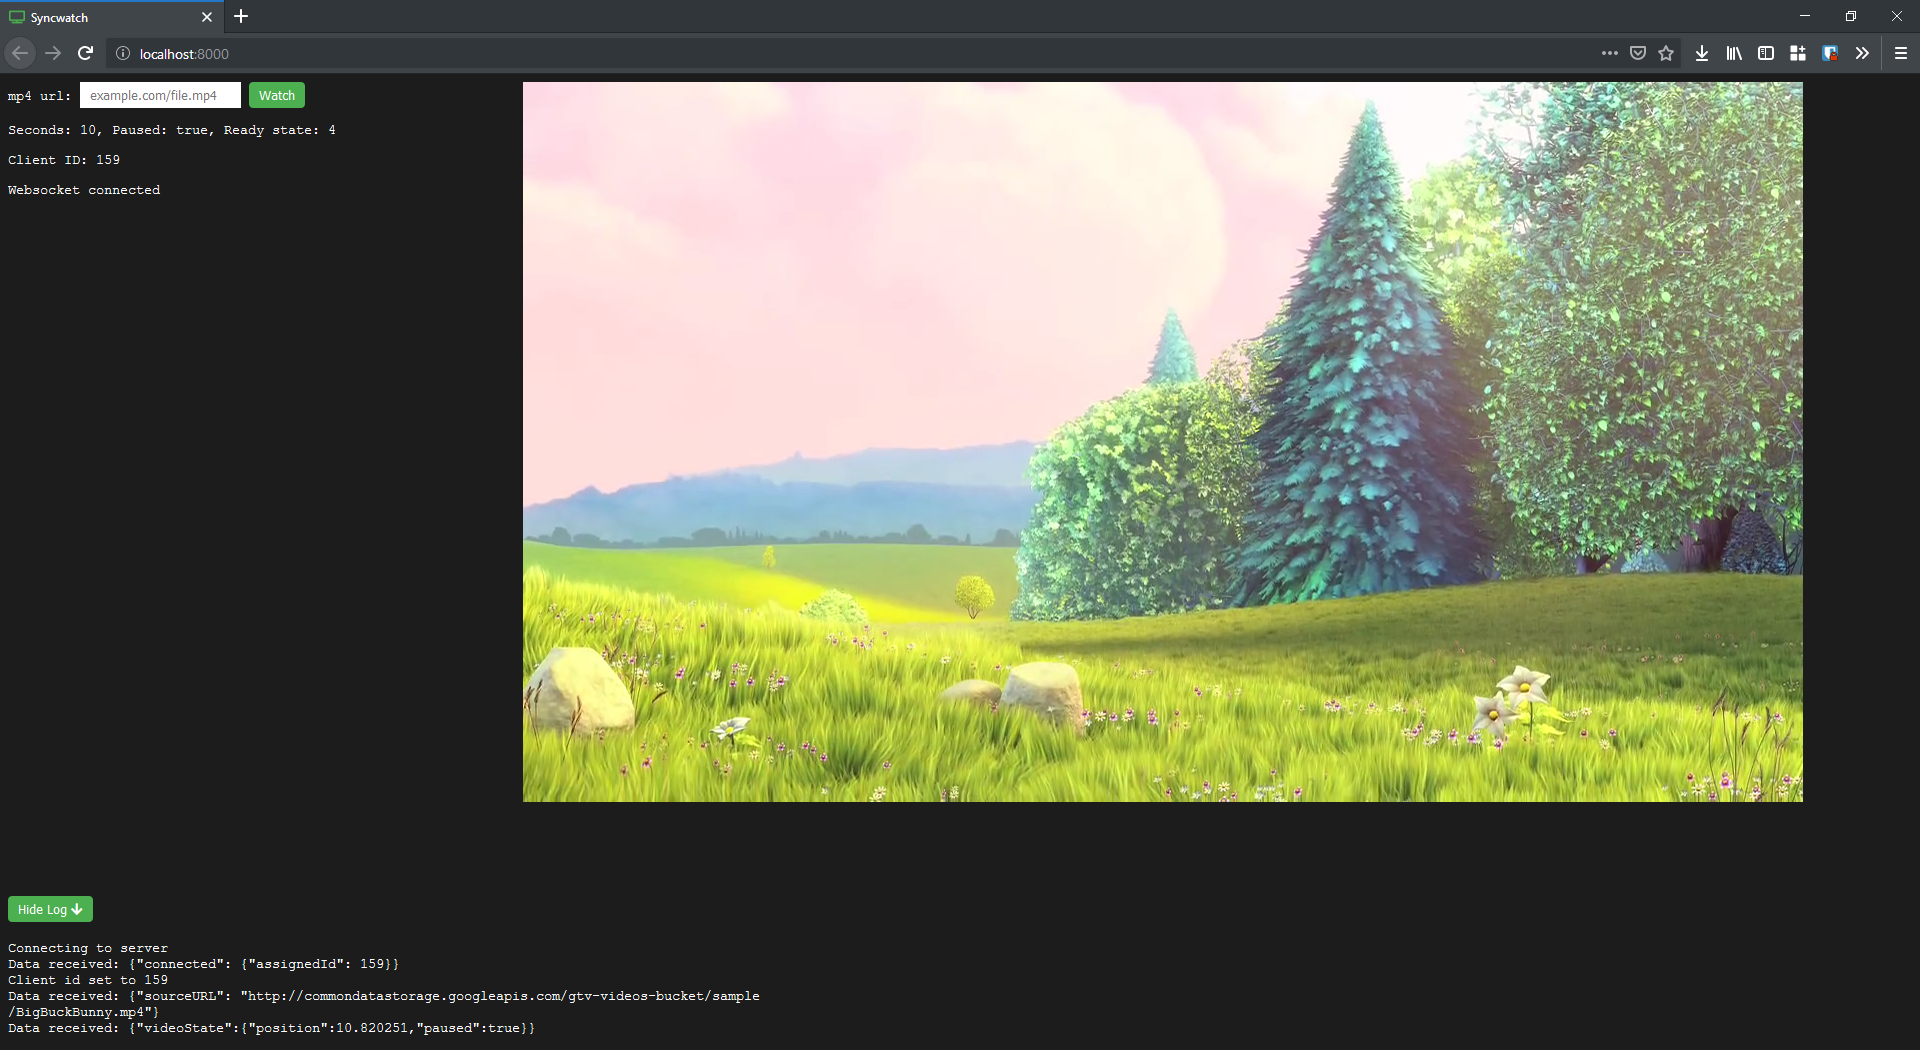
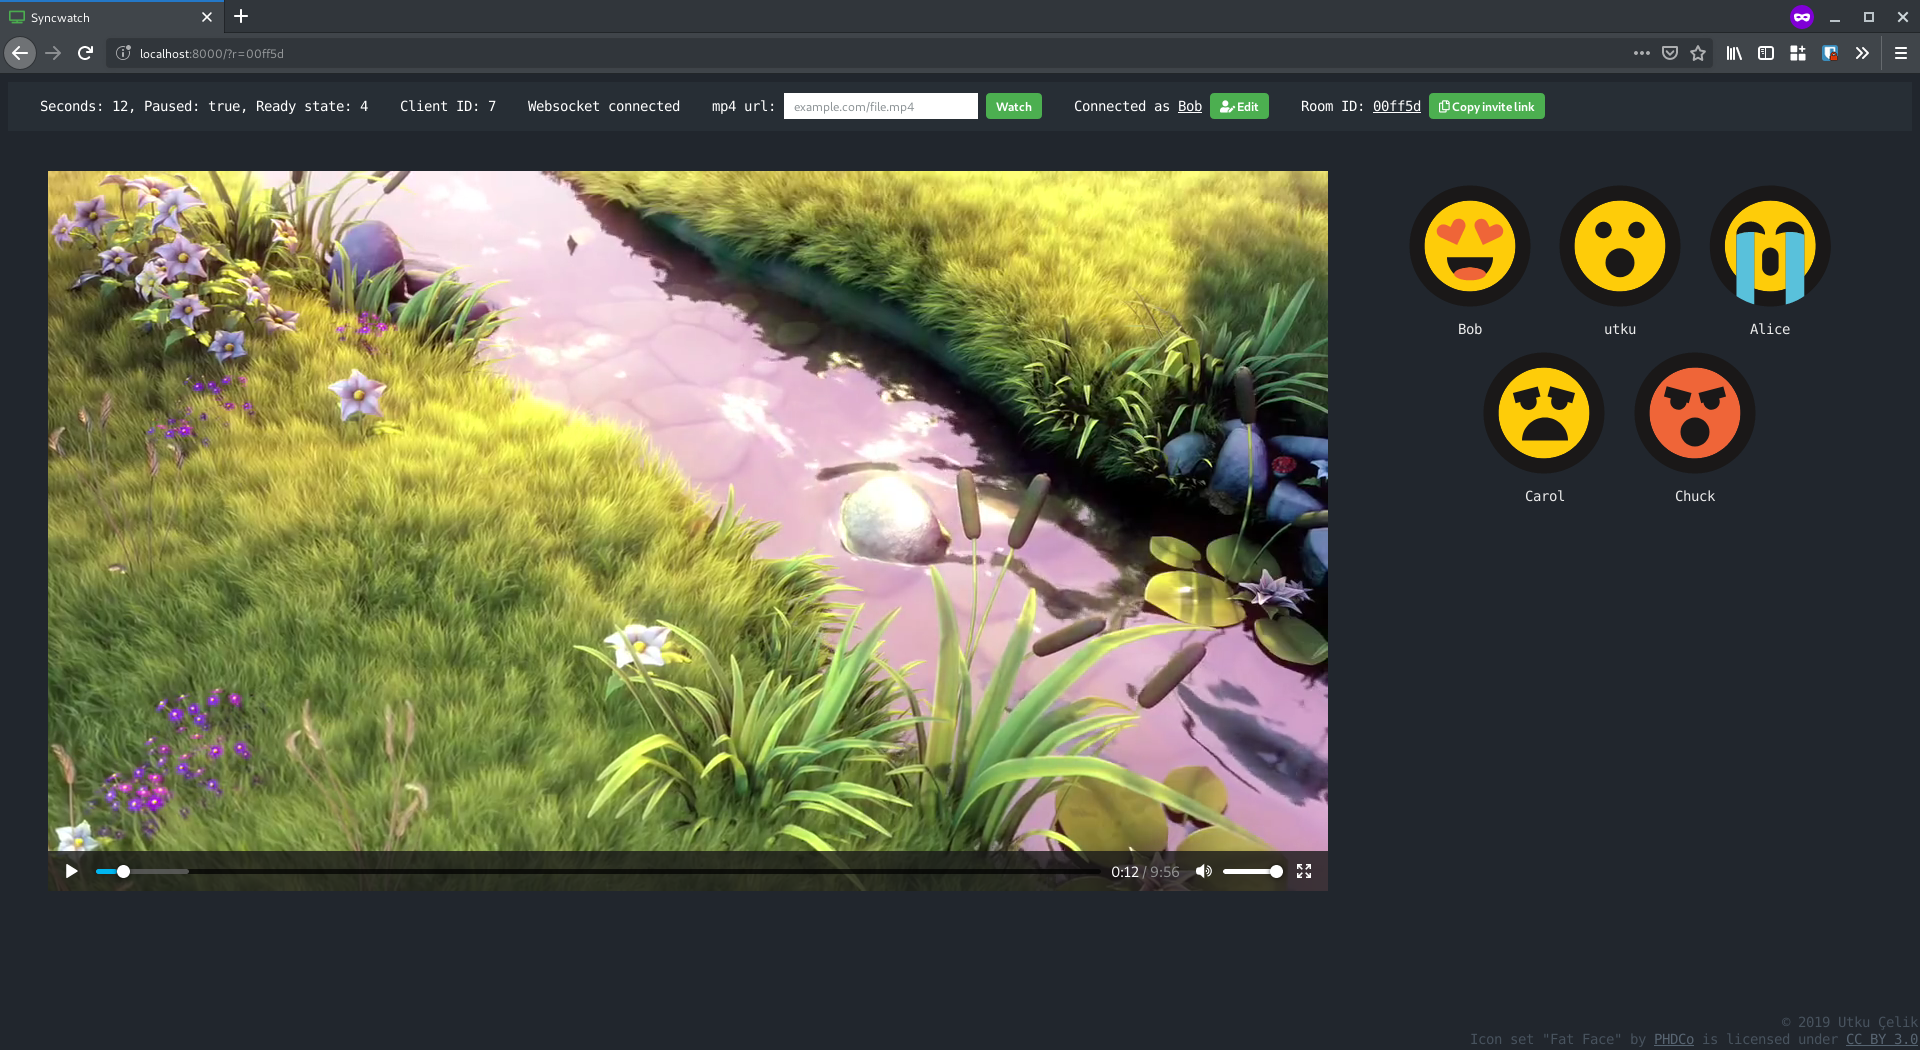
Add rooms to websocket server

diff --git a/common.js b/common.js
@@ -1,19 +1,7 @@
 var url = new URL(window.location);
 
-var roomId;
-if (roomId = url.searchParams.get("r")) {
-
-    document.getElementById("room_link").innerHTML = "Room ID: <u>" + roomId + "</u>";
-
-} else {
-
-    // if there is no room in url create one
-    roomId = makeId(5);
-    url.searchParams.append("r", roomId);
-    window.location.replace(url);
-}
-
-log("Joining room " + roomId);
+// room id from url or from server if url is empty
+var room_id = -1;
 
 // client id given by server, -1 if not assigned
 var client_id = -1;
@@ -47,6 +35,9 @@ if ("WebSocket" in window) { // if the browser is supported
 
         ws_text.innerHTML = "Websocket connected"
         log("Connected to websocket server");
+        
+        log("Setting room id");
+        setRoomId();
     };
 
     ws.onclose = function (event) {
@@ -109,4 +100,19 @@ function log(text) {
 
 function makeId(length) {
     return Math.random().toString(36).substring(length);
-  }
+}
+
+function setRoomId() {
+
+    if (room_id = url.searchParams.get("r")) {
+
+        // request to join the room in url
+        document.getElementById("room_link").innerHTML = "Room ID: <u>" + room_id + "</u>";
+        ws.send(JSON.stringify({"roomId": room_id}));
+    
+    } else {
+    
+        // if there is no room in url request new room
+        ws.send(JSON.stringify({"roomId": "request"}));
+    }
+}

diff --git a/sync.js b/sync.js
@@ -134,6 +134,19 @@ ws.onmessage = function (event) {
             log("Peer with id " + peerId + " is called " + peerName);
             log("Updating UI for peer " + peerId);
             document.getElementById("figure" + peerId).getElementsByTagName("figcaption")[0].innerHTML = peerName;
+
+            break;
+
+        case "roomId":
+
+            room_id = message["roomId"];
+            log ("Joined room " + room_id);
+            url.searchParams.append("r", room_id);
+            document.getElementById("room_link").innerHTML = "Room ID: <u>" + room_id + "</u>";
+
+            if (history.pushState) {
+                window.history.pushState("object or string", "Title", url);
+            } 
     }
 };
 

diff --git a/interface.js b/interface.js
@@ -112,7 +112,7 @@ function setUsername() {
 
 function copyRoomLink() {
 
-    navigator.clipboard.writeText(location.href).then(function() {
+    navigator.clipboard.writeText(url).then(function() {
         
         /* clipboard successfully set */
         log ("Room link copied to clipboard");

diff --git a/websocket_server.py b/websocket_server.py
@@ -1,65 +1,95 @@
-from sys import argv
 import ssl
 import json
 import asyncio
 import websockets
 
-from time import gmtime, strftime
+from sys import argv # for --no-ssl
+from time import gmtime, strftime # for log timestamps
+import secrets # for random room id
 
 def log(message):
     time = strftime("%Y-%m-%d %H:%M:%S", gmtime())
     print(f"WS - {time} - {message}")
 
-# last assigned id number
-clientIdCounter = 0
+roomsList = dict()
 
-# list of connected clients with a socket and id for each
-clientList = set() # [ (ws1,id1), (ws2,id2) ... ]
-clientNames = dict()
+class Room: 
 
-# default example source
-sourceURL = "https://commondatastorage.googleapis.com/gtv-videos-bucket/sample/BigBuckBunny.mp4"
+    def __init__(self, id):
+       
+        self.id = id
 
-defaultVideoState = json.dumps({ "videoState": { "position": 0, "paused": True} })
-lastKnownState = defaultVideoState
+        # last assigned id number
+        self.clientIdCounter = 0
 
+        # list of connected clients with a socket and id for each
+        self.clientList = set() # [ (ws1,id1), (ws2,id2) ... ]
+        self.clientNames = dict()
+
+        # default example source
+        self.sourceURL = "https://commondatastorage.googleapis.com/gtv-videos-bucket/sample/BigBuckBunny.mp4"
+
+        self.defaultVideoState = json.dumps({ "videoState": { "position": 0, "paused": True} })
+        self.lastKnownState = self.defaultVideoState
+
+
+# everything in the handler function is the bidirectional 
+# communication of a single client with the ws server
 async def handler(ws, path):
 
-    global clientIdCounter
-    global lastKnownState
-    global sourceURL
     clientId = -1 # not assigned yet
-    
+    clientRoom = None
+
     ### NEW CONNECTION
 
+    # wait until client requests room
+    while clientRoom is None:
+        firstMessage = await ws.recv()
+        if "roomId" in firstMessage:
+            
+            roomId = json.loads(firstMessage)["roomId"]
+            log (f"Room id received {roomId}")
+
+            if roomId == "request":
+                roomId = secrets.token_hex(3)
+                log(f"Creating new room: {roomId}")
+                roomsList[roomId] = Room(id=roomId)
+                await ws.send(json.dumps({"roomId" : roomId}))
+
+            # add client to room
+            clientRoom = roomsList[roomId]
+
     # assign new client an id
-    log(f"Connection established to client {clientIdCounter}")
-    welcomeMessage = {"connected": {"assignedId": clientIdCounter}}
+    log(f"Connection established to client {clientRoom.clientIdCounter} (Room: {clientRoom.id})")
+    welcomeMessage = {"connected": {"assignedId": clientRoom.clientIdCounter}}
     await ws.send(json.dumps(welcomeMessage))
 
     # send the video link and state to the new client
     log("Sending video source to new client")
-    await ws.send(json.dumps({"sourceURL" : sourceURL}))
-    log(f"Sending video state to new client {lastKnownState}")    
-    await ws.send(lastKnownState)
+    await ws.send(json.dumps({"sourceURL" : clientRoom.sourceURL}))
+    log(f"Sending video state to new client {clientRoom.lastKnownState}")    
+    await ws.send(clientRoom.lastKnownState)
             
     # send a list of already connected clients to the newcomer
-    if (len(clientList) is not 0):
-        log(f"Sending a list of clients to new client ({clientNames})")    
-        for peerId in [x[1] for x in clientList]:
-            alreadyPeer = {"newPeer": {"id": peerId, "name": clientNames[peerId]} }
+    if (len(clientRoom.clientList) is not 0):
+        log(f"Sending a list of clients to new client ({clientRoom.clientNames})")    
+        for peerId in [x[1] for x in clientRoom.clientList]:
+            alreadyPeer = {"newPeer": {"id": peerId, "name": clientRoom.clientNames[peerId]} }
             await ws.send(json.dumps(alreadyPeer))
 
     # notify other clients of the new peer
-    for peer in [x[0] for x in clientList]:
-        newPeerNotice = {"newPeer": {"id": clientIdCounter} }
+    for peer in [x[0] for x in clientRoom.clientList]:
+        newPeerNotice = {"newPeer": {"id": clientRoom.clientIdCounter} }
         await peer.send(json.dumps(newPeerNotice))
 
     # add new client to the list
-    clientId = clientIdCounter
-    clientIdCounter += 1
-    clientList.add((ws,clientId))
-    clientNames[clientId] = "Guest " + str(clientId)
+    clientId = clientRoom.clientIdCounter
+    clientRoom.clientIdCounter += 1
+    clientRoom.clientList.add((ws,clientId))
+    
+    # new client is referred to as a guest with client id
+    # until it sends its username
+    clientRoom.clientNames[clientId] = "Guest " + str(clientId)
 
     try:
 
@@ -72,11 +102,13 @@ async def handler(ws, path):
             log(f"Message from client {clientId}: {messageFromClient}")
 
             if "newSource" in messageFromClient:
+            # client changed video source, forward info to peers
 
                 messageJSON = json.loads(messageFromClient)
-                sourceURL = messageJSON["newSource"]["url"]
+                clientRoom.sourceURL = messageJSON["newSource"]["url"]
 
             if "peerName" in messageFromClient:
+            # client changed their username, forward info to peers
 
                 messageJSON = json.loads(messageFromClient)
                 name = messageJSON["peerName"]["name"]
@@ -84,14 +116,15 @@ async def handler(ws, path):
 
                 # update client with the new name
                 log(f"Saving the name \"{name}\" for client {clientId}")
-                clientNames[clientId] = name
+                clientRoom.clientNames[clientId] = name
 
-            for peer in [x[0] for x in clientList]:
+            for peer in [x[0] for x in clientRoom.clientList]:
                 if peer is not ws:
                     await peer.send(messageFromClient)
 
+            # client changed video state, forward info to peers
             if "videoState" in messageFromClient:
-                lastKnownState = messageFromClient
+                clientRoom.lastKnownState = messageFromClient
 
     except websockets.exceptions.ConnectionClosed:
 
@@ -101,19 +134,19 @@ async def handler(ws, path):
 
         # END OF CONNECTION
     
-        log(f"Removing Client {clientId} ({clientNames[clientId]}) from list")
-        clientList.remove((ws,clientId))
-        del clientNames[clientId]    
+        log(f"Removing Client {clientId} ({clientRoom.clientNames[clientId]}) from list")
+        clientRoom.clientList.remove((ws,clientId))
+        del clientRoom.clientNames[clientId]    
 
-        for peer in [x[0] for x in clientList]:
+        for peer in [x[0] for x in clientRoom.clientList]:
             peerLeftNotice = {"peerLeft": {"id": clientId} }
             await peer.send(json.dumps(peerLeftNotice))
 
         # if nobody is left reset id counter
-        if len(clientList) == 0:
+        if len(clientRoom.clientList) == 0:
             log("All clients left, resetting counter")
-            clientIdCounter = 0
-            clientNames.clear()
+            clientRoom.clientIdCounter = 0
+            clientRoom.clientNames.clear()
 
 
 if __name__ == '__main__':
